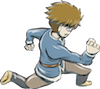
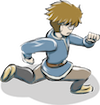
player image and sizes modified

diff --git a/game/game.js b/game/game.js
@@ -318,7 +318,7 @@ function Player() { // this --> Player
     this.drawX = 250; // рисование объекта
     this.drawY = Math.floor(Math.random() * gameHeight);
     this.width = 100; // проверить после смены рисунка
-    this.height = 94;
+    this.height = 105;
     // часть, связанная с апдэйтом
     this.speed = 5;
     // для управления с клавиатуры - переменные, отвечающие за перемещение объекта
